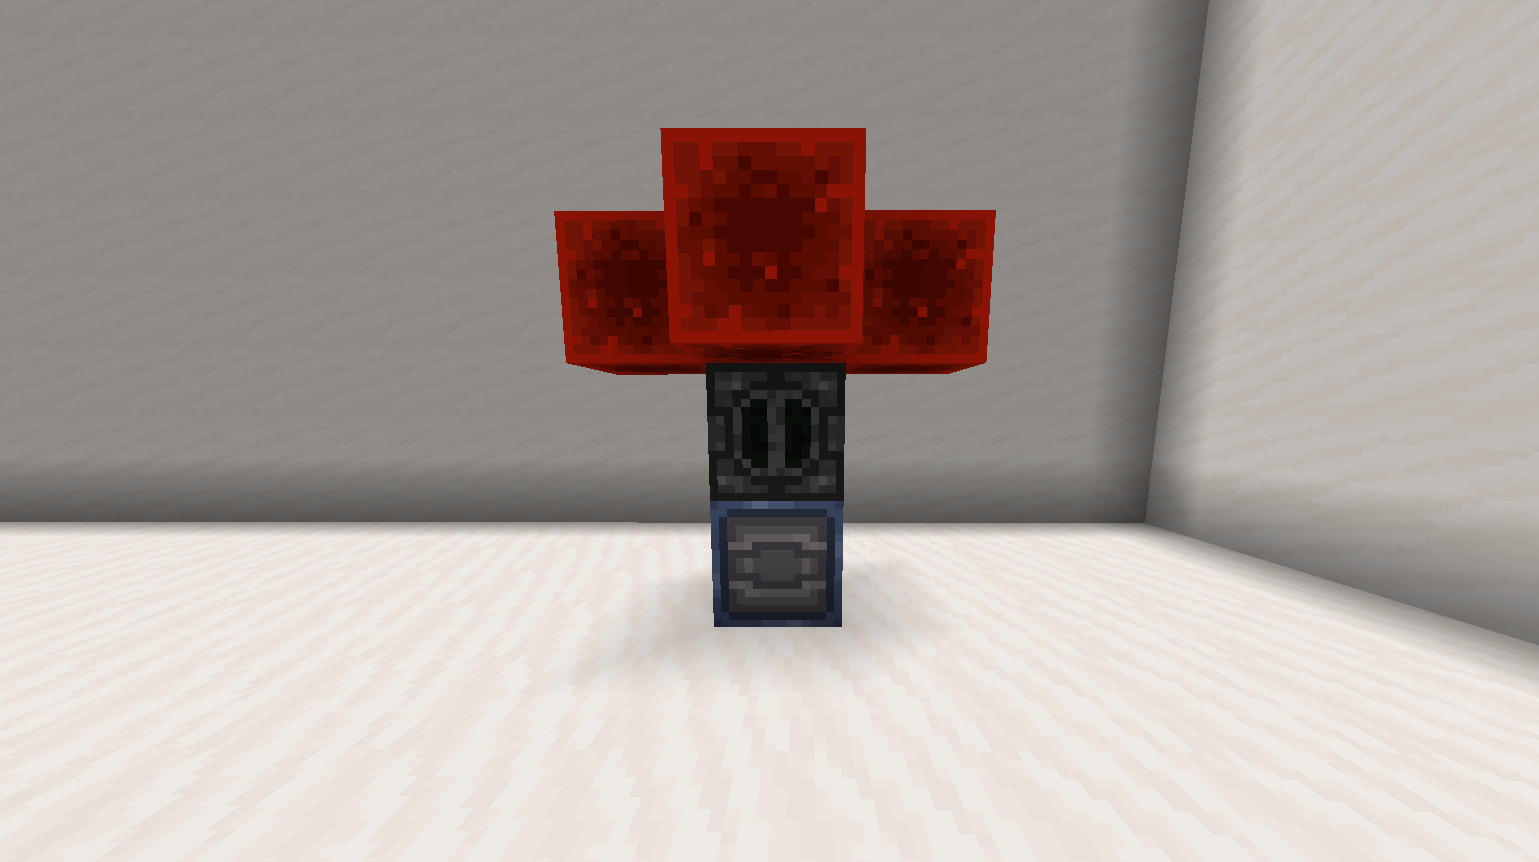
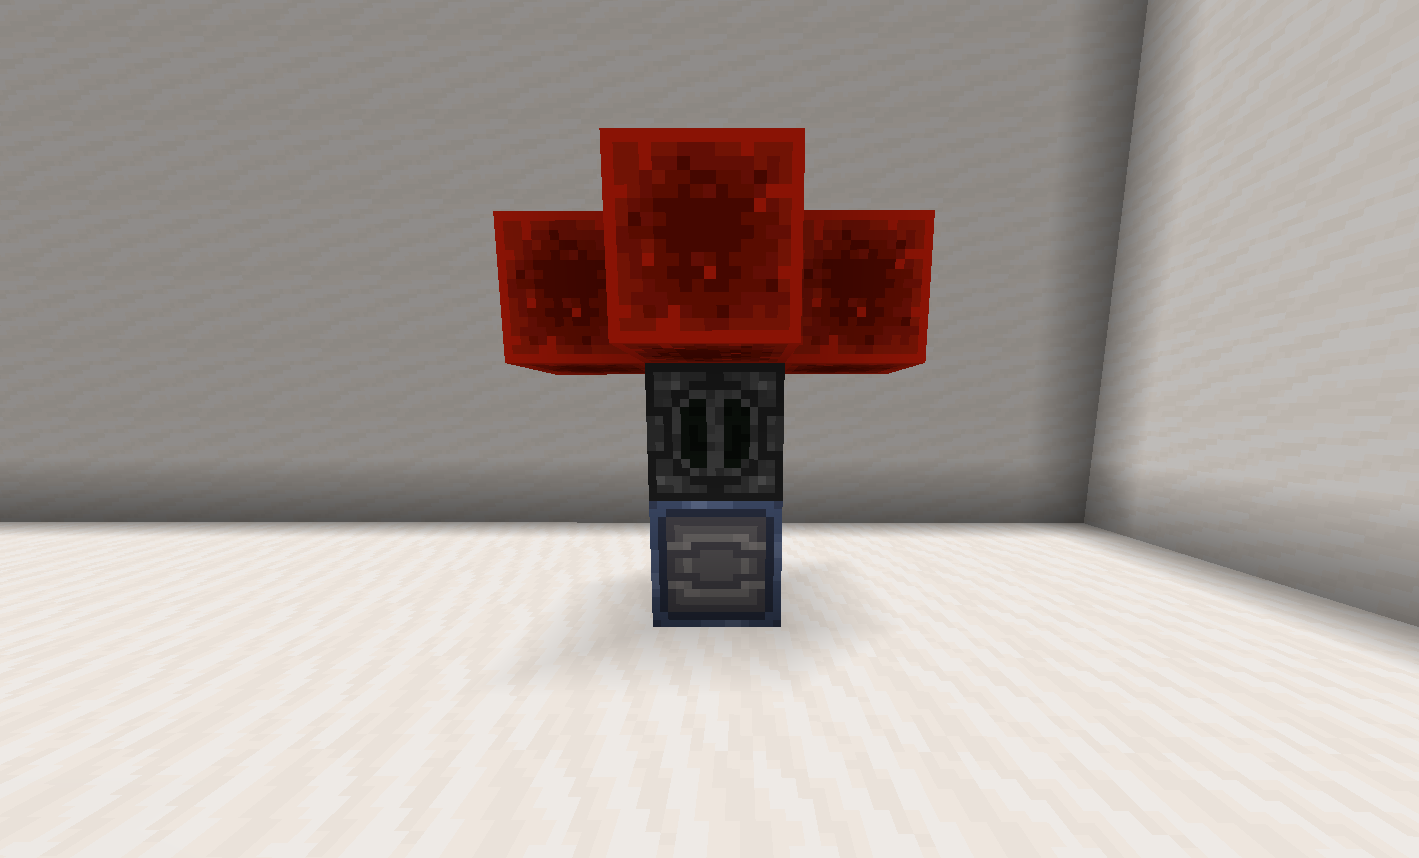
finish resonant/machines.html

Changed region(s): [[0.3411, 0.1515, 0.6822, 0.7576], [0.7132, 0.0, 1.0, 0.7879], [0.6512, 0.6061, 0.6822, 0.6364]]

diff --git a/resonant/machines.html b/resonant/machines.html
@@ -313,13 +313,19 @@
           </subarticle>
           <subarticle>
             <h3 id="smeltery">Arc Smeltery</h3>
+            <div class="imgwrapper">
             <img src="../images/machines/smeltery.png" id="smeltery">
-            <label for="smeltery">Side view</label>
+            <label for="smeltery">Front view</label>
+            </div>
+            <div class="imgwrapper">
+              <img src="../images/machines/smeltery1.png" id="1">
+              <label for="smeltery1">View from above</label>
+            </div>
             <p>Arc smelteries will smelt ores at more efficient rates, giving the player more then they would from smelting the ore in a furnace.</p>
             <div class="twrapper">
               <table class="stats">
                 <tr>
-                  <th>Recipes</th>
+                  <th colspan="2">Recipes</th>
                 </tr>
                 <tr>
                   <td>Ingredient(s)</td>
@@ -398,7 +404,7 @@
               <!--  recipes -->
               <table class="stats">
                 <tr>
-                  <th>Recipes</th>
+                  <th colspan="2">Recipes</th>
                 </tr>
                 <tr>
                   <td>Ingredient(s)</td>
@@ -444,7 +450,7 @@
               <!-- recipes 2 -->
               <table class="stats">
                 <tr>
-                  <th>Recipes (2)</th>
+                  <th colspan="2">Recipes (2)</th>
                 </tr>
                 <tr>
                   <td>Ingredient(s)</td>
@@ -475,6 +481,13 @@
               <tr>
                 <th colspan="2">Required blocks</th>
               </tr>
+              <tr>
+                <td>Machine press (custom, power input)</td>
+                <td rowspan="2">1</td>
+              </tr>
+              <tr>
+                <td>Barrel (Input/Output)</td>
+              </tr>
             </table>
             </div>
           </subarticle>
@@ -487,7 +500,7 @@
             <div class="twrapper">
               <table class="stats">
                 <tr>
-                  <th>Recipes</th>
+                  <th colspan="2">Recipes</th>
                 </tr>
               </table>
             <table class="stats">

diff --git a/index.html b/index.html
@@ -24,7 +24,7 @@
           <h3>Greetings, pilot.</h3>
           <p>Welcome to Ensis Shipyards' guide to the Celestial Expanse, hopefully, it will assist you in your travels.
           </p>
-          <h2>Note that <strike>stricken</strike> entries aren't finished.</h2>
+          <h3>Note that <strike>stricken</strike> entries aren't finished.</h3>
         </intro>
         <contents>
           <section>
@@ -137,7 +137,7 @@
               </div>
               <!-- Resonant machines -->
               <div class="swrapper">
-                <a class="item" href="resonant/machines.html" style="text-decoration: line-through;">Machines</a>
+                <a class="item" href="resonant/machines.html">Machines</a>
               </div>
             </div>
           </section>

diff --git a/res/navigation.js b/res/navigation.js
@@ -105,9 +105,7 @@ $('#navbar').html(function () {
   </ul>
   </li>
   <!-- //* resonant machinery -->
-  <strike>
   <li><a id="resonant-machines" href="../resonant/machines.html">Machines</a></li>
-  </strike>
   </ul>
   <h3 class="nav-title">Structures</h3>
   <ul>
